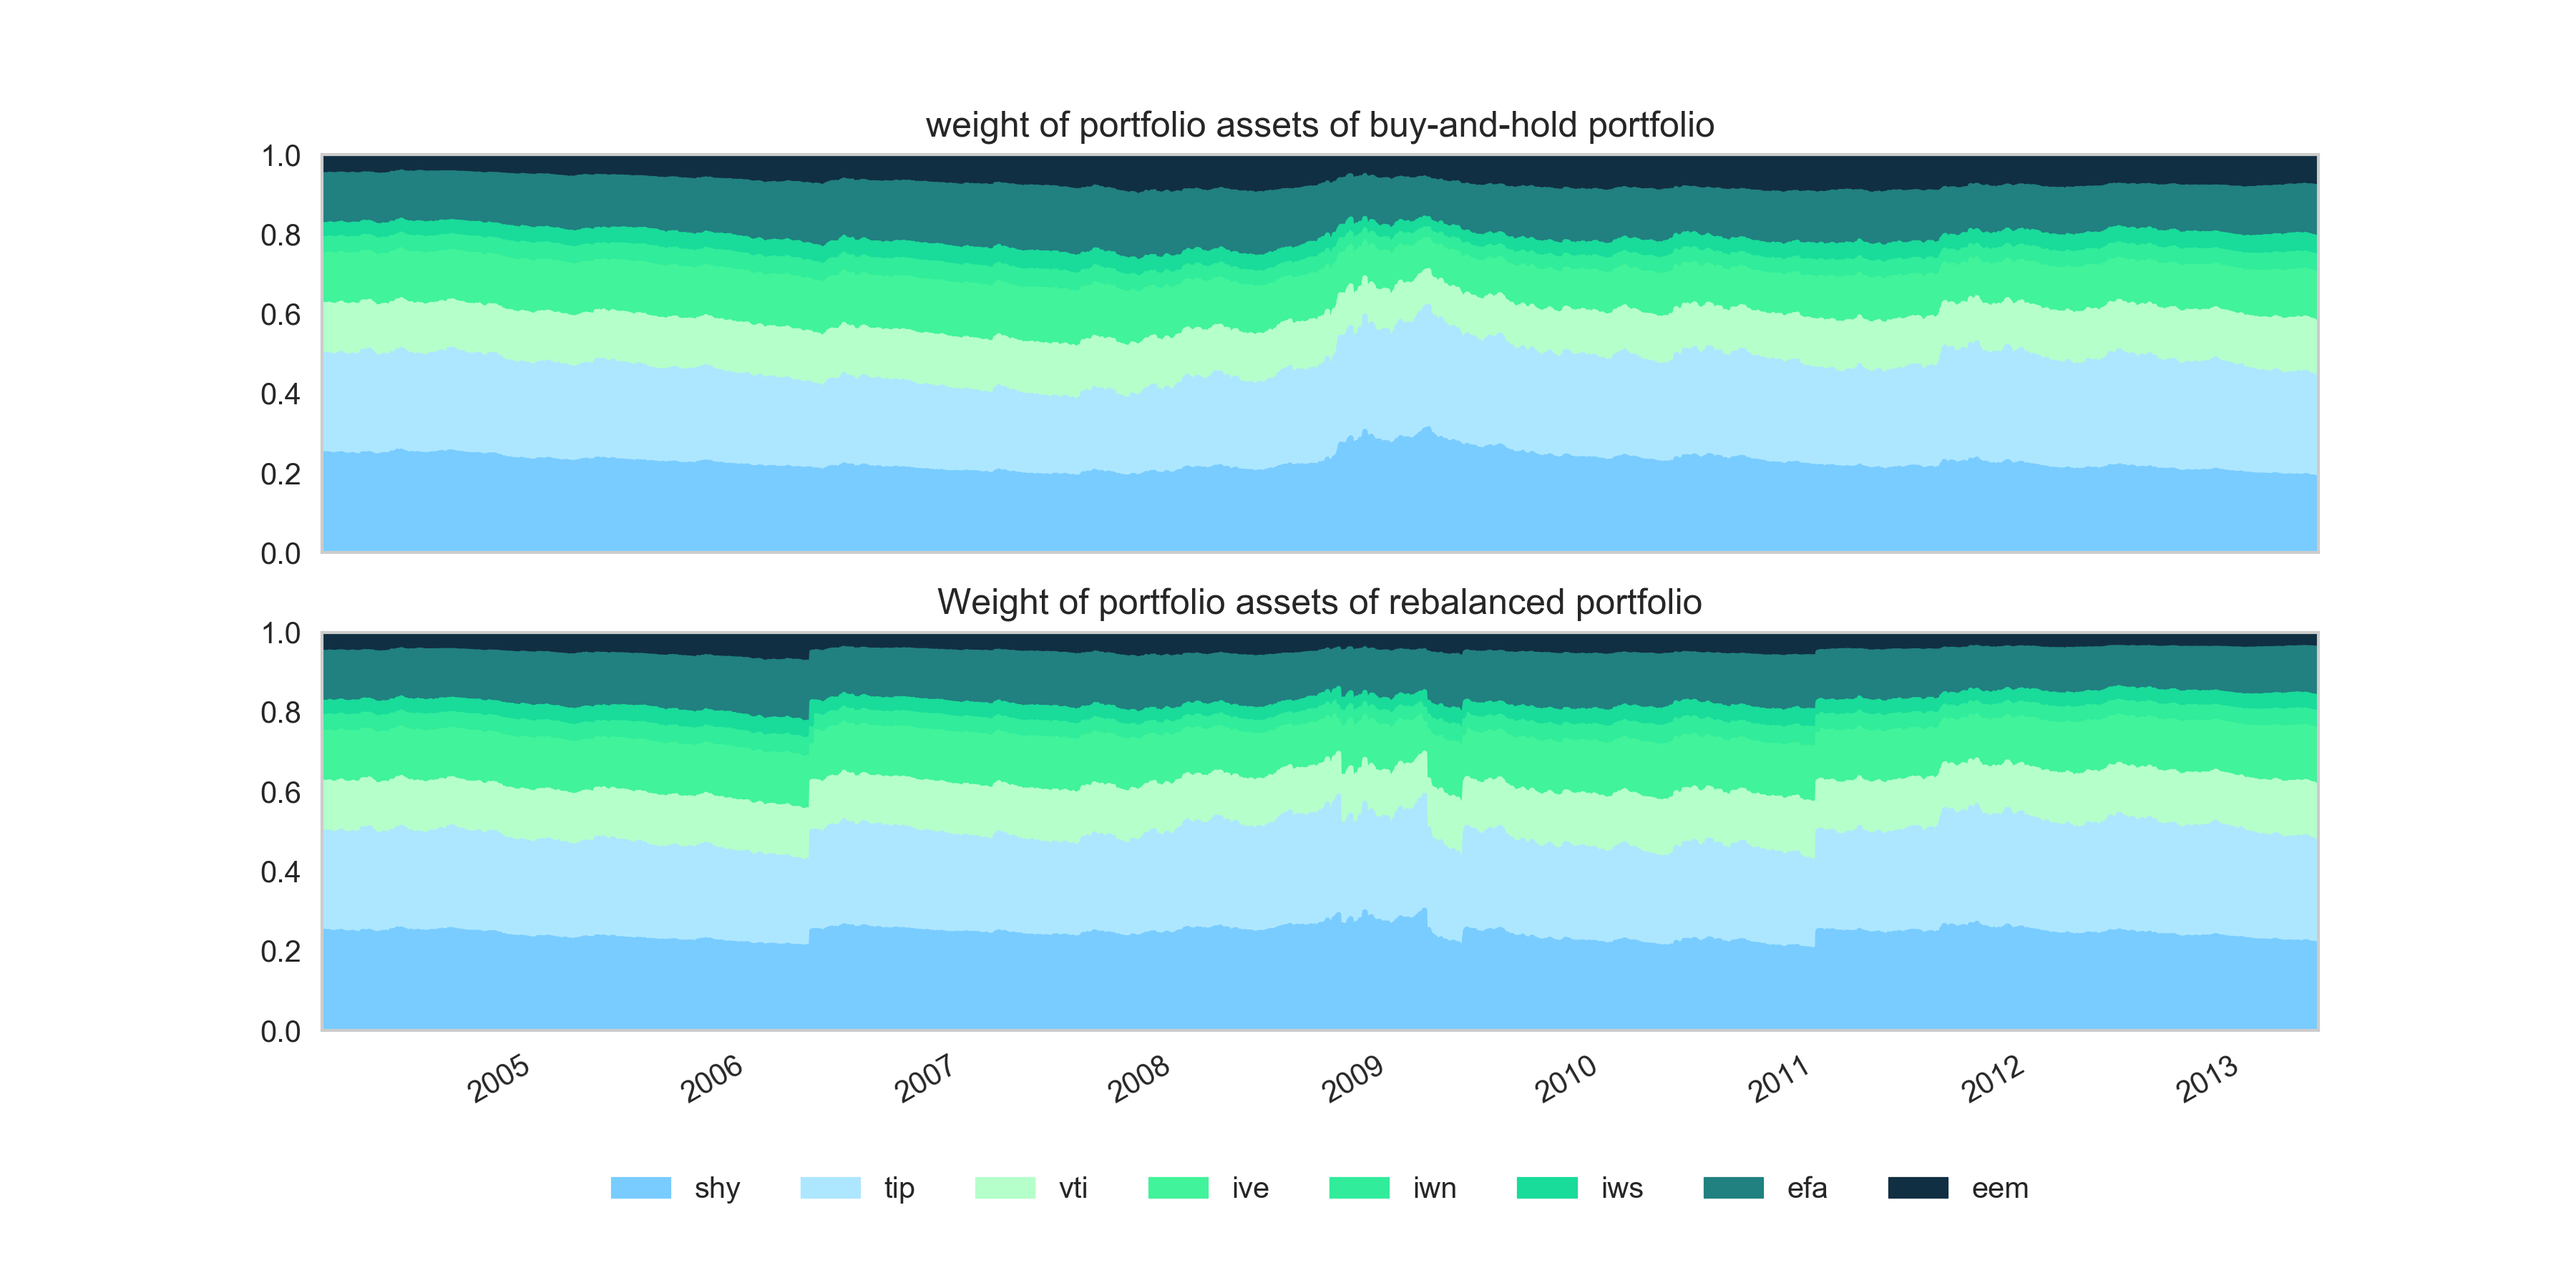
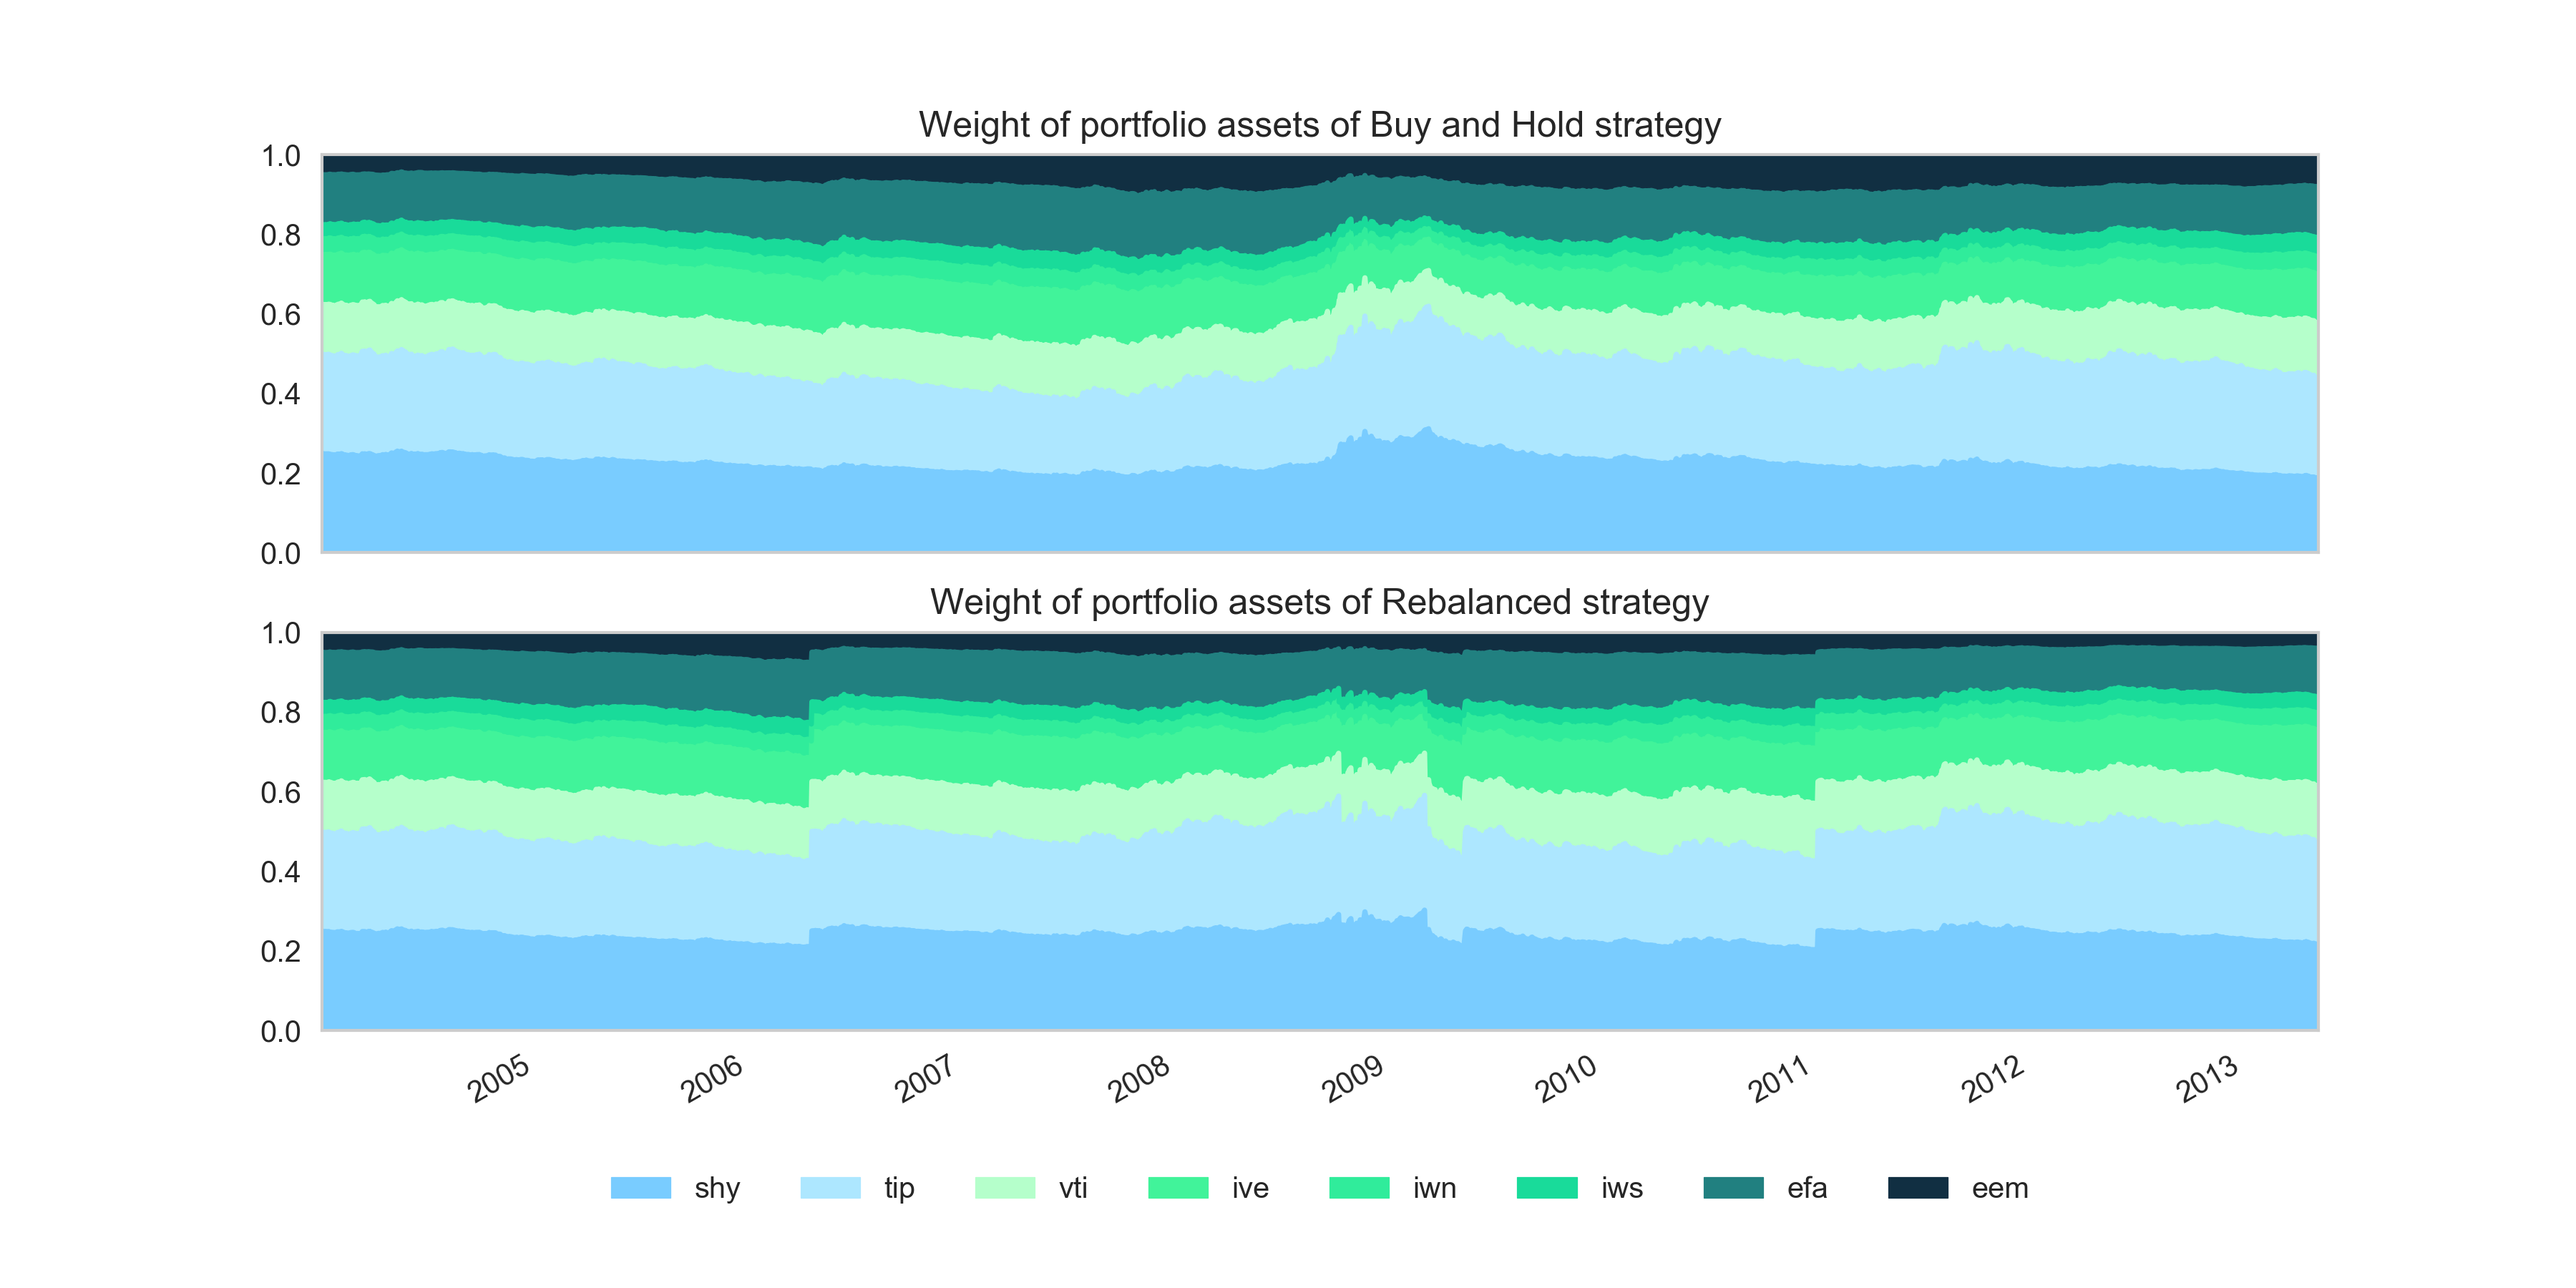
Moved plotting functions to Strategy

Changed region(s): [[0.3733, 0.4356, 0.6533, 0.4978], [0.5289, 0.0933, 0.6844, 0.1244], [0.3733, 0.0933, 0.4978, 0.1244]]

diff --git a/bcs.py b/bcs.py
@@ -52,38 +52,14 @@ def save_images(strategy_1, strategy_2):
     """
 
     # RETURNS PLOT
-    df_1 = strategy_1.df
-    df_2 = strategy_2.df
-    df_trades = strategy_2.trades
     df_1_ax = plt.subplot2grid((2, 2), (0, 0))
     df_2_ax = plt.subplot2grid((2, 2), (1, 0))
     hist_ax = plt.subplot2grid((2, 2), (0, 1), rowspan=2)
 
-    df_1['returns'].plot(
-        ax=df_1_ax,
-        figsize=(12, 6),
-        title='Daily returns of buy-and-hold portfolio',
-        color=BETTERMENT_GRAY
-    )
-    df_2['returns'].plot(
-        ax=df_2_ax,
-        title='Daily returns of rebalanced portfolio',
-        color=BETTERMENT_BLUE
-    )
-    sns.distplot(
-        a=df_1['returns'],
-        color=BETTERMENT_GRAY,
-        ax=hist_ax,
-        bins=50,
-        label='Buy and Hold'
-    )
-    sns.distplot(
-        a=df_2['returns'],
-        color=BETTERMENT_BLUE,
-        ax=hist_ax,
-        bins=50,
-        label='Rebalance'
-    )
+    strategy_1.returns_chart(df_1_ax, BETTERMENT_GRAY)
+    strategy_2.returns_chart(df_2_ax, BETTERMENT_BLUE)
+    strategy_1.returns_distribution_chart(hist_ax, BETTERMENT_GRAY)
+    strategy_2.returns_distribution_chart(hist_ax, BETTERMENT_BLUE)
     plt.title('Frequency of returns')
     plt.legend()
     plt.tight_layout()
@@ -92,58 +68,23 @@ def save_images(strategy_1, strategy_2):
 
     # ALLOCATIONS PLOT
     fig_alloc, axes_alloc = plt.subplots(nrows=2, ncols=1, sharex='all', sharey='all')
-
-    df_1['allocations'].plot(
-        ax=axes_alloc[0],
-        figsize=(12, 6),
-        title='weight of portfolio assets of buy-and-hold portfolio',
-        kind='area',
-        legend=False,
-        ylim=(0, 1),
-        colormap=cm.get_cmap('betterment', 8)
-    )
-    df_2['allocations'].plot(
-        ax=axes_alloc[1],
-        title='Weight of portfolio assets of rebalanced portfolio',
-        kind='area',
-        legend=False,
-        colormap=cm.get_cmap('betterment')
-    )
-    axes_alloc[0].set_xlim(df_1.index[0], df_1.index[-1])
+    strategy_1.asset_allocations_chart(axes_alloc[0], cm.get_cmap('betterment'))
+    strategy_2.asset_allocations_chart(axes_alloc[1], cm.get_cmap('betterment'))
     plt.legend(loc=9, bbox_to_anchor=(0.5, -0.3), ncol=8)
     plt.savefig(os.path.join('images', 'asset_allocations.png'), dpi=300)
     plt.gcf().clear()
 
     # PORTFOLIO VALUE PLOT
     fig_values, axes_values = plt.subplots()
-
-    df_1['values'].sum(axis=1).plot(
-        ax=axes_values,
-        figsize=(12, 6),
-        title='Portfolio values',
-        label='Value of buy-and-hold portfolio',
-        color=BETTERMENT_GRAY
-    )
-    df_2['values'].sum(axis=1).plot(
-        ax=axes_values,
-        label='Value of rebalanced portfolio',
-        color=BETTERMENT_BLUE
-    )
-    axes_values.set_xlim(df_1.index[0], df_1.index[-1])
+    strategy_1.value_chart(axes_values, BETTERMENT_GRAY)
+    strategy_2.value_chart(axes_values, BETTERMENT_BLUE)
     plt.legend(loc=9, bbox_to_anchor=(0.5, -0.15), ncol=2)
     plt.savefig(os.path.join('images', 'values.png'), dpi=300)
     plt.gcf().clear()
 
     # TRADES PLOT
     fig_trades, axes_trades = plt.subplots()
-
-    df_trades.cumsum().reindex(df_1.index, method='ffill').plot(
-        ax=axes_trades,
-        figsize=(12, 6),
-        title='Cumulative investment per ETF',
-        cmap='betterment'
-    )
-    axes_trades.set_xlim(df_1.index[0], df_1.index[-1])
+    strategy_2.trades_chart(axes_trades, cm.get_cmap('betterment'))
     plt.legend(loc=9, bbox_to_anchor=(0.5, -0.2), ncol=8)
     plt.savefig(os.path.join('images', 'trades.png'), dpi=300)
     plt.gcf().clear()
@@ -187,11 +128,11 @@ def run(max_drift=0.05, minkowski_p=4, starting_cash=100000, commission=0.005):
 
     # The buy-and-hold portfolio serves as our baseline. As expected from the name, the buy-and-hold portfolio buys
     # the target ETF portfolio and then holds it for the period.
-    buy_and_hold = Strategy('buy_and_hold', target_weights, tc)
+    buy_and_hold = Strategy('Buy and Hold', target_weights, tc)
 
     # The rebalanced portfolio is our 'active' portfolio for this case study. It rebalances its holdings whenever the
     # allocation drifts too far from the target.
-    rebalanced = Strategy('rebalanced', target_weights, tc)
+    rebalanced = Strategy('Rebalanced', target_weights, tc)
 
     # We give the rebalanced portfolio the Minkoski distance as its trigger function, and the max_drift as its
     # trigger point. The trade method then generates the portfolio returns over the trading period.

diff --git a/strategy.py b/strategy.py
@@ -3,6 +3,7 @@ from functools import partial
 
 import numpy as np
 import pandas as pd
+import seaborn as sns
 
 import trading_context
 
@@ -131,7 +132,57 @@ class Strategy:
         :return: None
         """
         path = partial(os.path.join, 'datasets')
-        self.df['values'].sum(axis=1).to_csv(path('{0}_values.csv'.format(self.name)))
-        self.df['allocations'].to_csv(path('{0}_allocations.csv'.format(self.name)))
-        self.df['returns'].to_csv(path('{0}_returns.csv'.format(self.name)))
-        self.trades.to_csv(path('{0}_trades.csv'.format(self.name)))
+        save_name = self.name.lower().replace(' ','_')
+        self.df['values'].sum(axis=1).to_csv(path('{0}_values.csv'.format(save_name)))
+        self.df['allocations'].to_csv(path('{0}_allocations.csv'.format(save_name)))
+        self.df['returns'].to_csv(path('{0}_returns.csv'.format(save_name)))
+        self.trades.to_csv(path('{0}_trades.csv'.format(save_name)))
+
+    def returns_chart(self, ax, color):
+        self.df['returns'].plot(
+            ax=ax,
+            figsize=(12, 6),
+            title='Daily returns of {name} strategy'.format(name=self.name),
+            color=color
+        )
+        ax.set_xlim(self.tc.dates[0], self.tc.dates[-1])
+
+    def returns_distribution_chart(self, ax, color):
+        sns.distplot(
+            a=self.df['returns'],
+            color=color,
+            ax=ax,
+            bins=50,
+            label='{name}'.format(name=self.name)
+        )
+
+    def asset_allocations_chart(self, ax, cm):
+        self.df['allocations'].plot(
+            ax=ax,
+            figsize=(12, 6),
+            title='Weight of portfolio assets of {name} strategy'.format(name=self.name),
+            kind='area',
+            legend=False,
+            ylim=(0, 1),
+            colormap=cm
+        )
+        ax.set_xlim(self.tc.dates[0], self.tc.dates[-1])
+
+    def value_chart(self, ax, color):
+        self.df['values'].sum(axis=1).plot(
+            ax=ax,
+            figsize=(12, 6),
+            title='Portfolio values',
+            label='Value of buy-and-hold strategy'.format(name=self.name),
+            color=color
+        )
+        ax.set_xlim(self.tc.dates[0], self.tc.dates[-1])
+
+    def trades_chart(self, ax, cm):
+        self.trades.cumsum().reindex(self.tc.dates, method='ffill').plot(
+            ax=ax,
+            figsize=(12, 6),
+            title='Cumulative investment per instrument',
+            cmap=cm
+        )
+        ax.set_xlim(self.tc.dates[0], self.tc.dates[-1])
